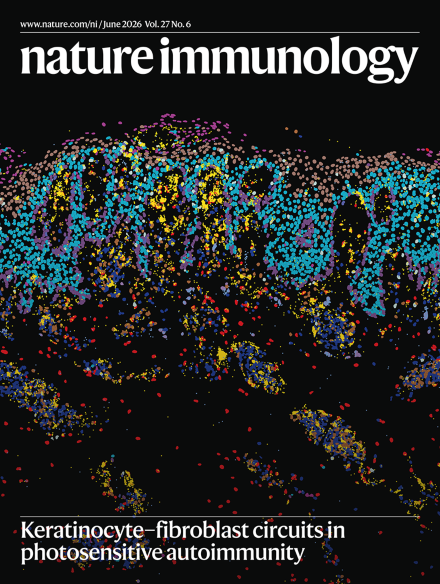
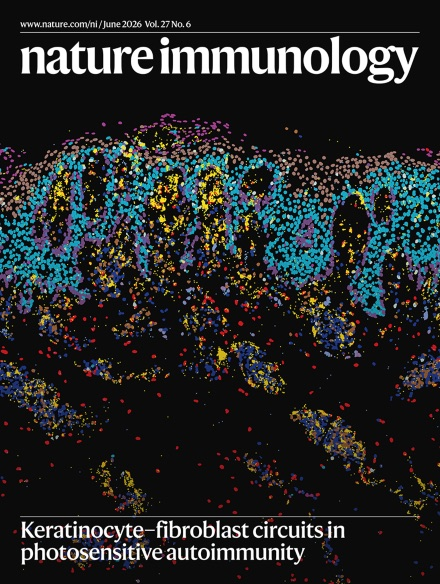
Convert to Next.js static export
- next.config.ts: output "export", images unoptimized (no Worker
  means no Next image optimizer on Cloudflare Pages).
- Re-encode nature-immunology-cover.jpg as true JPEG (it was PNG data
  under a .jpg name): 290K -> 139K at the same 440x584 dimensions.
- Drop tests/rendered-html.test.mjs: it only asserted on the OpenAI
  Sites "loading skeleton" scaffolding (_sites-preview/, dist/server
  worker) that's no longer part of this codebase.
- lint script now runs eslint directly; `next lint` was removed in
  Next.js 16. Fix the one real lint error (unescaped apostrophe in
  research-section.tsx).

npm run build now produces a working static export in out/.

diff --git a/components/research-section.tsx b/components/research-section.tsx
@@ -5,7 +5,7 @@ export function ResearchSection() {
     <>
       <section className="section-shell statement">
         <p>
-          The lab's earlier work in comparative genomics, noncoding regulation, and regulatory
+          The lab&apos;s earlier work in comparative genomics, noncoding regulation, and regulatory
           modeling is not separate from our current disease focus. It is the framework we use to ask
           a newer question: how do regulatory programs become cellular behaviors in human tissue?
         </p>

diff --git a/next.config.ts b/next.config.ts
@@ -1,0 +1,10 @@
+import type { NextConfig } from "next";
+
+const nextConfig: NextConfig = {
+  output: "export",
+  images: {
+    unoptimized: true,
+  },
+};
+
+export default nextConfig;
